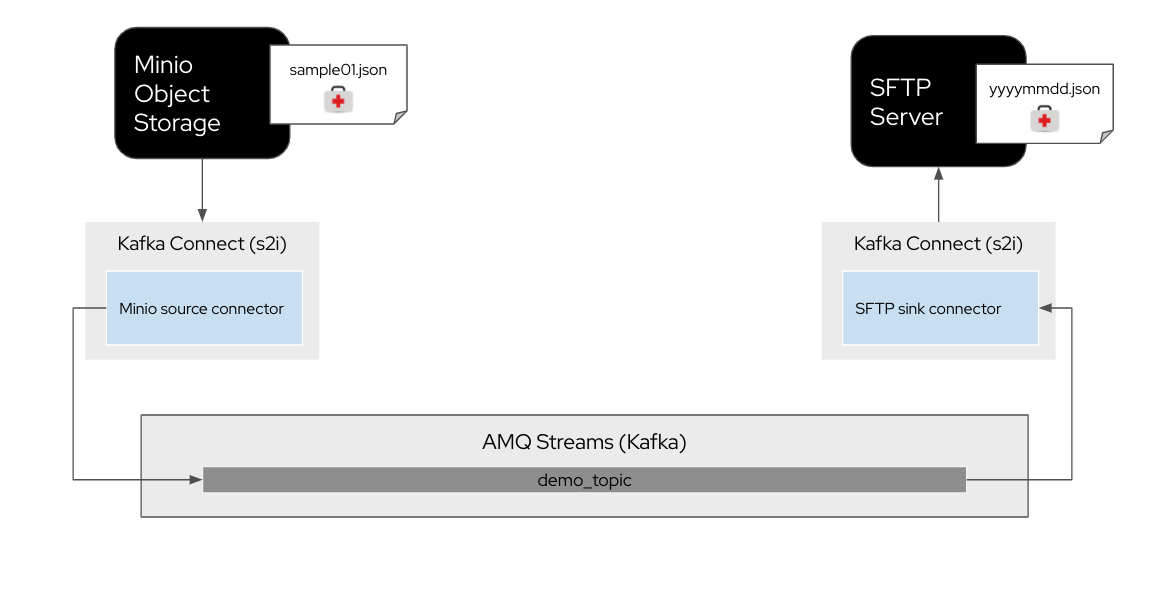
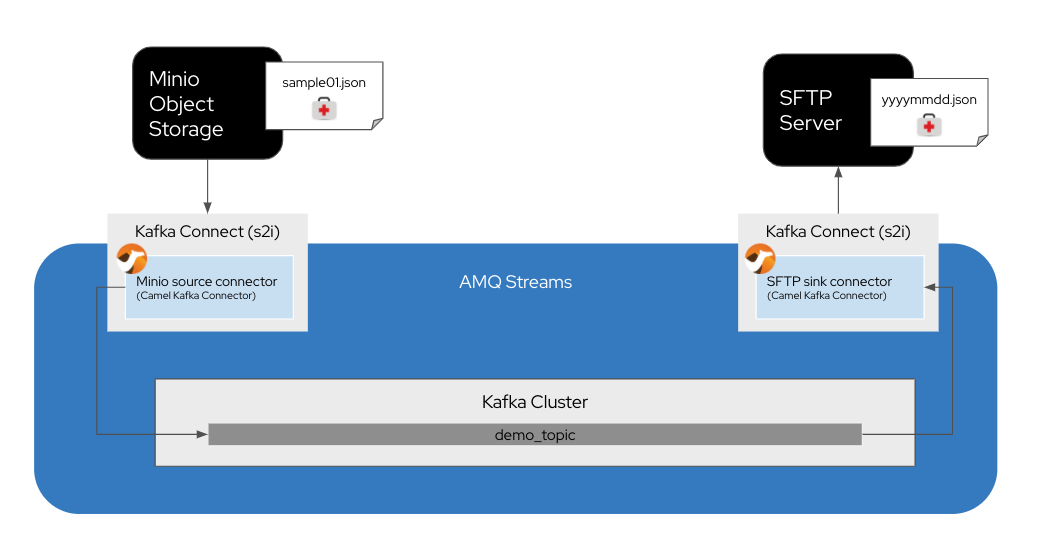
Fixing issue #953 (#957)
* Update using properties, remove POJO

* Update using properties, remove POJO

* update images and final conclusion

diff --git a/middleware/middleware-camelk/camel-k-serving/step2.md b/middleware/middleware-camelk/camel-k-serving/step2.md
@@ -90,7 +90,7 @@ Go to the text editor on the right, under the folder /root/camel-api. Right clic
 Paste the following code into the application.
 
 <pre class="file" data-filename="API.java" data-target="replace">
-// camel-k: language=java
+// camel-k: language=java dependency=camel-quarkus-openapi-java
 
 import org.apache.camel.builder.AggregationStrategies;
 import org.apache.camel.builder.RouteBuilder;
@@ -99,34 +99,35 @@ public class API extends RouteBuilder {
   @Override
   public void configure() throws Exception {
 
-    // All endpoints starting from "direct:..." reference an operationId defined in the "openapi.yaml" file.
+    // All endpoints starting from "direct:..." reference an operationId defined
+    // in the "openapi.yaml" file.
 
     // List the object names available in the S3 bucket
     from("direct:list")
-      .to("aws-s3://{{api.bucket}}?operation=listObjects")
-      .transform().simple("${body.objectSummaries}")
+      .to("aws2-s3://{{api.bucket}}?operation=listObjects")
       .split(simple("${body}"), AggregationStrategies.groupedBody())
         .transform().simple("${body.key}")
       .end()
       .marshal().json();
 
+
     // Get an object from the S3 bucket
     from("direct:get")
       .setHeader("CamelAwsS3Key", simple("${header.name}"))
-      .to("aws-s3://{{api.bucket}}?operation=getObject")
-      .setHeader("Content-Type", simple("${body.objectMetadata.contentType}"))
-      .transform().simple("${body.objectContent}");
+      .to("aws2-s3://{{api.bucket}}?operation=getObject")
+      .convertBodyTo(String.class);
 
     // Upload a new object into the S3 bucket
     from("direct:create")
       .setHeader("CamelAwsS3Key", simple("${header.name}"))
-      .to("aws-s3://{{api.bucket}}");
+      .to("aws2-s3://{{api.bucket}}");
+
 
     // Delete an object from the S3 bucket
     from("direct:delete")
-    .setHeader("CamelAwsS3Key", simple("${header.name}"))
-    .to("aws-s3://{{api.bucket}}?operation=deleteObject")
-    .setBody().constant("");
+      .setHeader("CamelAwsS3Key", simple("${header.name}"))
+      .to("aws2-s3://{{api.bucket}}?operation=deleteObject")
+      .setBody().constant("");
 
   }
 }
@@ -146,6 +147,12 @@ minio.endpoint=http://minio:9000
 minio.access-key=minio
 minio.secret-key=minio123
 
+# Camel AWS2 S3
+camel.component.aws2-s3.region=EU_WEST_1
+camel.component.aws2-s3.access-key={{minio.access-key}}
+camel.component.aws2-s3.secret-key={{minio.secret-key}}
+camel.component.aws2-s3.uri-endpoint-override = {{minio.endpoint}}
+camel.component.aws2-s3.override-endpoint = true
 
 # General configuration
 camel.context.rest-configuration.api-context-path=/api-doc
@@ -154,7 +161,7 @@ camel.context.rest-configuration.api-context-path=/api-doc
 
 We are now ready to start up the application, simply point to the OpenAPI standard document and along with the implemented Camel K application. Notice we are also pointing to the configuration file too.
 
-``kamel run --name api helper/MinioCustomizer.java camel-api/API.java --property-file camel-api/minio.properties --open-api helper/openapi.yaml -d camel-openapi-java``{{execute}}
+``kamel run --name api camel-api/API.java --property-file camel-api/minio.properties --open-api helper/openapi.yaml``{{execute}}
 
 Wait for the integration to be running (you should see the logs streaming in the terminal window).
 

diff --git a/middleware/middleware-camelk/camel-kafka-connector/step4.md b/middleware/middleware-camelk/camel-kafka-connector/step4.md
@@ -63,4 +63,4 @@ OpenJDK 64-Bit Server VM warning: If the number of processors is expected to inc
 
 ## Congratulations
 
-In this scenario you got to play with Camel Kafka Connector. You have initiated an AMQ Streams (Kafka) cluster on Openshift, created an object store, sftp server. Then started a Kafka Connect with your own build of image including the libraries needed. Then you created a source Camel Kafka connector that loads
+In this scenario you got to play with Camel Kafka Connector. You have initiated an AMQ Streams (Kafka) cluster on openshift, created an object store, sftp server. Then started a Kafka Connect with your own build of image including the libraries needed. Then you created a source Camel Kafka connector that loads files from the _AWS2 S3_ like storage, place the file in the kafka topic, and created another Camel Kafka connector that listens to the input from the kafka topic and place the file in the SFTP server.

diff --git a/middleware/middleware-camelk/camel-k-serving/step4.md b/middleware/middleware-camelk/camel-k-serving/step4.md
@@ -3,7 +3,7 @@
 
 With the same set of code written in Camel K, you can run it as a Serverless integration:
 
-``kamel run --name api helper/MinioCustomizer.java camel-api/API.java --property-file camel-api/minio.properties --open-api helper/openapi.yaml -d camel-openapi-java --profile Knative``{{execute}}
+``kamel run camel-api/API.java --open-api helper/openapi.yaml --property-file camel-api/minio.properties --dependency camel-quarkus-openapi-java --profile Knative``{{execute}}
 
 Notice, when you allow, Camel K will automatically deploy the camel routes as Serverless services so the routes can be auto scalable and scale down to zero when not needed.
 
